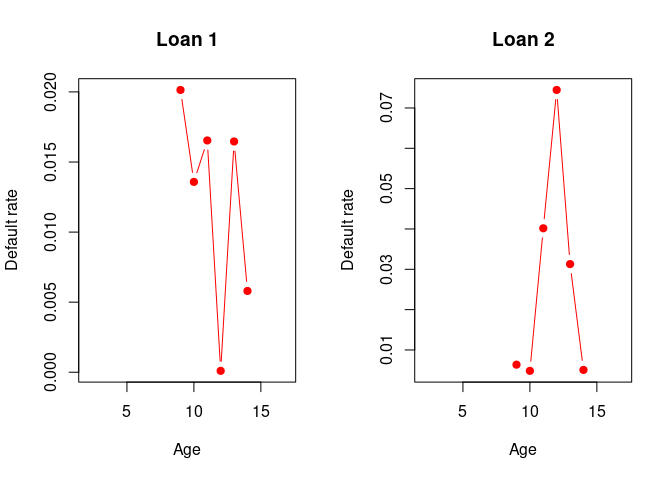
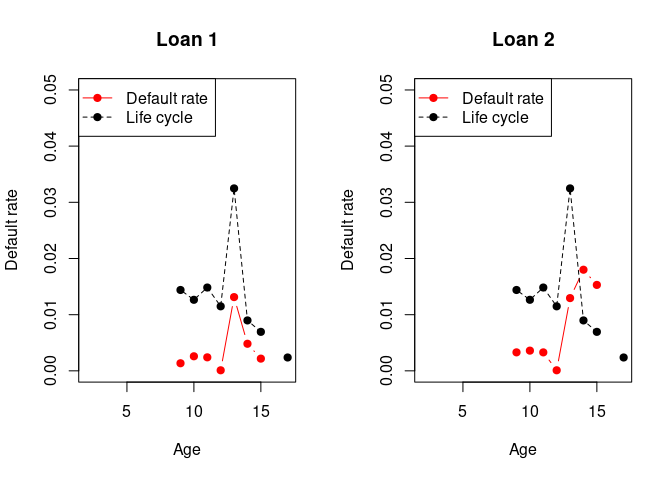
Corrections.

diff --git a/newrmd.md b/newrmd.md
@@ -1,7 +1,7 @@
 Moody’s Analytics Coding Test
 ================
 Said Maanan
-2022-06-20
+2022-06-21
 
 ## Introduction
 
@@ -15,7 +15,7 @@ load the data frame `data.csv`:
 
 ``` r
 library(readr)
-data <- read_csv("~/Downloads/Coding_Test/data.csv")
+data <- read_csv("data.csv")
 ```
 
 The `readr` package tells us that the data frame consists of 5 variables
@@ -66,9 +66,7 @@ Generate the variable `lifecycle`:
 
 ``` r
 library(tidyverse)
-```
 
-``` r
 data <- data %>% 
   group_by(age) %>% 
   mutate(lifecycle = mean(default_rate, na.rm = TRUE))
@@ -83,15 +81,35 @@ plot(unique(data[,c("age","lifecycle")]), type = "b", pch = 19, col = "red",
      ylab = "Lifecycle")
 ```
 
-![](newrmd_files/figure-gfm/unnamed-chunk-8-1.png)<!-- -->
+![](newrmd_files/figure-gfm/unnamed-chunk-7-1.png)<!-- -->
 
 ### Question 4
 
 Pick two loans with the default rate observed for at least five periods.
 
 ``` r
-book_1 = data[data$account_id=='400293',]
-book_2 = data[data$account_id=='401749',]
+# book_1 = data[data$account_id=='400293',]
+# book_2 = data[data$account_id=='401749',]
+
+# Select all the accounts for which more than six periods are not NAs.
+
+a = data %>% 
+  group_by(account_id) %>% 
+  dplyr::summarize(p = sum(!is.na(default_rate))) %>% 
+  filter(p > 6) %>% 
+  pull(account_id)
+
+# Draw two accounts randomly.
+
+b = as.character(sample(a, 2, replace = FALSE))
+
+# Create first book
+
+book_1 = data[data$account_id==b[1],]
+
+# Create second book
+
+book_2 = data[data$account_id==b[2],]
 ```
 
 For each loan, plot the lifecycle of the default rate.
@@ -110,14 +128,14 @@ plot(x = book_2$age, y = book_2$default_rate, type = "b", pch = 19, col = "red",
      ylab = "Default rate")
 ```
 
-![](newrmd_files/figure-gfm/unnamed-chunk-10-1.png)<!-- -->
+![](newrmd_files/figure-gfm/unnamed-chunk-9-1.png)<!-- -->
 
 Do the two loans follow the portfolio’s lifecycle?
 
 ``` r
 par(mfrow=c(1,2))
 
-plot(x = book_1$age, y = book_1$default_rate, type = "b", pch = 19, col = "red", ylim = c(0, 0.035),
+plot(x = book_1$age, y = book_1$default_rate, type = "b", pch = 19, col = "red", ylim = c(0, 0.05),
      main = "Loan 1",
      xlab = "Age",
      ylab = "Default rate")
@@ -126,7 +144,9 @@ points(unique(data[,c("age","lifecycle")]), type = "p", pch = 19, col = "black")
 
 lines(unique(data[,c("age","lifecycle")]), lty = 2, col="black")
 
-plot(x = book_2$age, y = book_2$default_rate, type = "b", pch = 19, col = "red", ylim = c(0, 0.08),
+legend("topleft", c("Default rate","Life cycle"), col=c("red","black"), pch=c(19,19), lty = c(1, 2))
+
+plot(x = book_2$age, y = book_2$default_rate, type = "b", pch = 19, col = "red", ylim = c(0, 0.05),
      main = "Loan 2",
      xlab = "Age",
      ylab = "Default rate")
@@ -134,12 +154,13 @@ plot(x = book_2$age, y = book_2$default_rate, type = "b", pch = 19, col = "red",
 points(unique(data[,c("age","lifecycle")]), type = "p", pch = 19, col = "black")
 
 lines(unique(data[,c("age","lifecycle")]), lty = 2, col="black")
+
+legend("topleft", c("Default rate","Life cycle"), col=c("red","black"), pch=c(19,19), lty = c(1, 2))
 ```
 
-![](newrmd_files/figure-gfm/unnamed-chunk-11-1.png)<!-- -->
+![](newrmd_files/figure-gfm/unnamed-chunk-10-1.png)<!-- -->
 
-The first account `400293` seems to align closely with the portfolio’s
-lifecycle, but the second account `401749` doesn’t.
+Both loans follow closely the portolio’s lifecycle.
 
 ### Question 5
 
@@ -227,7 +248,7 @@ plot(x = df_2[-1,]$Actual, y = df_2[-1,]$Predicted, type = "p", pch = 19, col = 
      ylab = "Predicted")
 ```
 
-![](newrmd_files/figure-gfm/unnamed-chunk-15-1.png)<!-- -->
+![](newrmd_files/figure-gfm/unnamed-chunk-14-1.png)<!-- -->
 
 Aggregate actual rates and predicted rates by age.
 
@@ -253,7 +274,7 @@ points(x = df_2$Age, df_2$Actual, type = "p", pch = 19, col = "black")
 legend("topright", c("Actual","Predicted"), col=c("black","red"), pch=c(19,19))
 ```
 
-![](newrmd_files/figure-gfm/unnamed-chunk-16-1.png)<!-- -->
+![](newrmd_files/figure-gfm/unnamed-chunk-15-1.png)<!-- -->
 
 The predicted default rate follows roughly the same pattern accross time
 as the actual default rate for the two loans.
@@ -264,7 +285,7 @@ as the actual default rate for the two loans.
 
 ``` r
 library(readr)
-mortgages_small <- read_csv("~/Downloads/Coding_Test/mortgages_small.csv")
+mortgages_small <- read_csv("mortgages_small.csv")
 ```
 
 How many observations in the data set?
@@ -343,7 +364,7 @@ barplot(monthly_loans$n,
         names.arg = 1:12)
 ```
 
-![](newrmd_files/figure-gfm/unnamed-chunk-22-1.png)<!-- -->
+![](newrmd_files/figure-gfm/unnamed-chunk-21-1.png)<!-- -->
 
 ### Question 3
 
@@ -386,7 +407,7 @@ barplot(yearly_loans$n,
         names.arg = yearly_loans$year)
 ```
 
-![](newrmd_files/figure-gfm/unnamed-chunk-24-1.png)<!-- -->
+![](newrmd_files/figure-gfm/unnamed-chunk-23-1.png)<!-- -->
 
 ### Question 4
 
@@ -417,7 +438,7 @@ summary(mortgages_small$obs_lag)
 Merge `macro.csv` and `mortgages.csv`
 
 ``` r
-macros <- read_csv("~/Downloads/Coding_Test/macros.csv")
+macros <- read_csv("macros.csv")
 macros$date = ym(macros$date)
 merged = merge(x = mortgages_small, y = macros, by.x = "obs_m", by.y = "date", all = TRUE)
 ```
@@ -602,7 +623,7 @@ points(agg_1$obs_m, agg_1$pred_default,
 legend("topright", c("Actual","Predicted"), lty = c(1,2), col=c("blue","red"), pch=c(20,18))
 ```
 
-![](newrmd_files/figure-gfm/unnamed-chunk-36-1.png)<!-- -->
+![](newrmd_files/figure-gfm/unnamed-chunk-35-1.png)<!-- -->
 
 Based on the results of the figure above, the predicted default rates
 follow roughly the movement of the actual default rates accross time,
@@ -619,19 +640,19 @@ train = mutate(train, bcs = ifelse(credit_score<= 650, "low-score", ifelse(credi
 
 agg_2 = train %>% group_by(bcs) %>% summarise_at(vars(default_flag, pred_default), mean)
 
-barplot(t(as.matrix(agg_2[,-1])),
+barplot(t(as.matrix(agg_2[c(2, 3, 1),-1])),
         main = "Actual Default vs Predicted Default",
         xlab = "Score Category",
         ylab = "Default Rate",
-        names.arg = c("High Score", "Low Score", "Mid Score"),
+        names.arg = c("Low Score", "Mid Score", "High Score"),
         col = gray.colors(2),
         beside = TRUE)
-legend("topleft",
+legend("topright",
        c("Default", "Pred. Default"),
        fill = gray.colors(2))
 ```
 
-![](newrmd_files/figure-gfm/unnamed-chunk-37-1.png)<!-- -->
+![](newrmd_files/figure-gfm/unnamed-chunk-36-1.png)<!-- -->
 
 ### Question 15
 
@@ -663,7 +684,7 @@ points(agg_3$obs_m, agg_3$oos_pred,
 legend("topright", c("Actual","Predicted"), lty = c(1,2), col=c("blue","red"), pch=c(20,18))
 ```
 
-![](newrmd_files/figure-gfm/unnamed-chunk-39-1.png)<!-- -->
+![](newrmd_files/figure-gfm/unnamed-chunk-38-1.png)<!-- -->
 
 Based on the figure above, we can see that the model behaves roughly the
 same way out-of-sample as it does in-sample.
@@ -702,7 +723,7 @@ PRROC_obj <- roc.curve(scores.class0 = test$oos_pred, weights.class0=test$defaul
 plot(PRROC_obj)
 ```
 
-![](newrmd_files/figure-gfm/unnamed-chunk-42-1.png)<!-- -->
+![](newrmd_files/figure-gfm/unnamed-chunk-41-1.png)<!-- -->
 
 Report the Gini coefficient of the model
 
